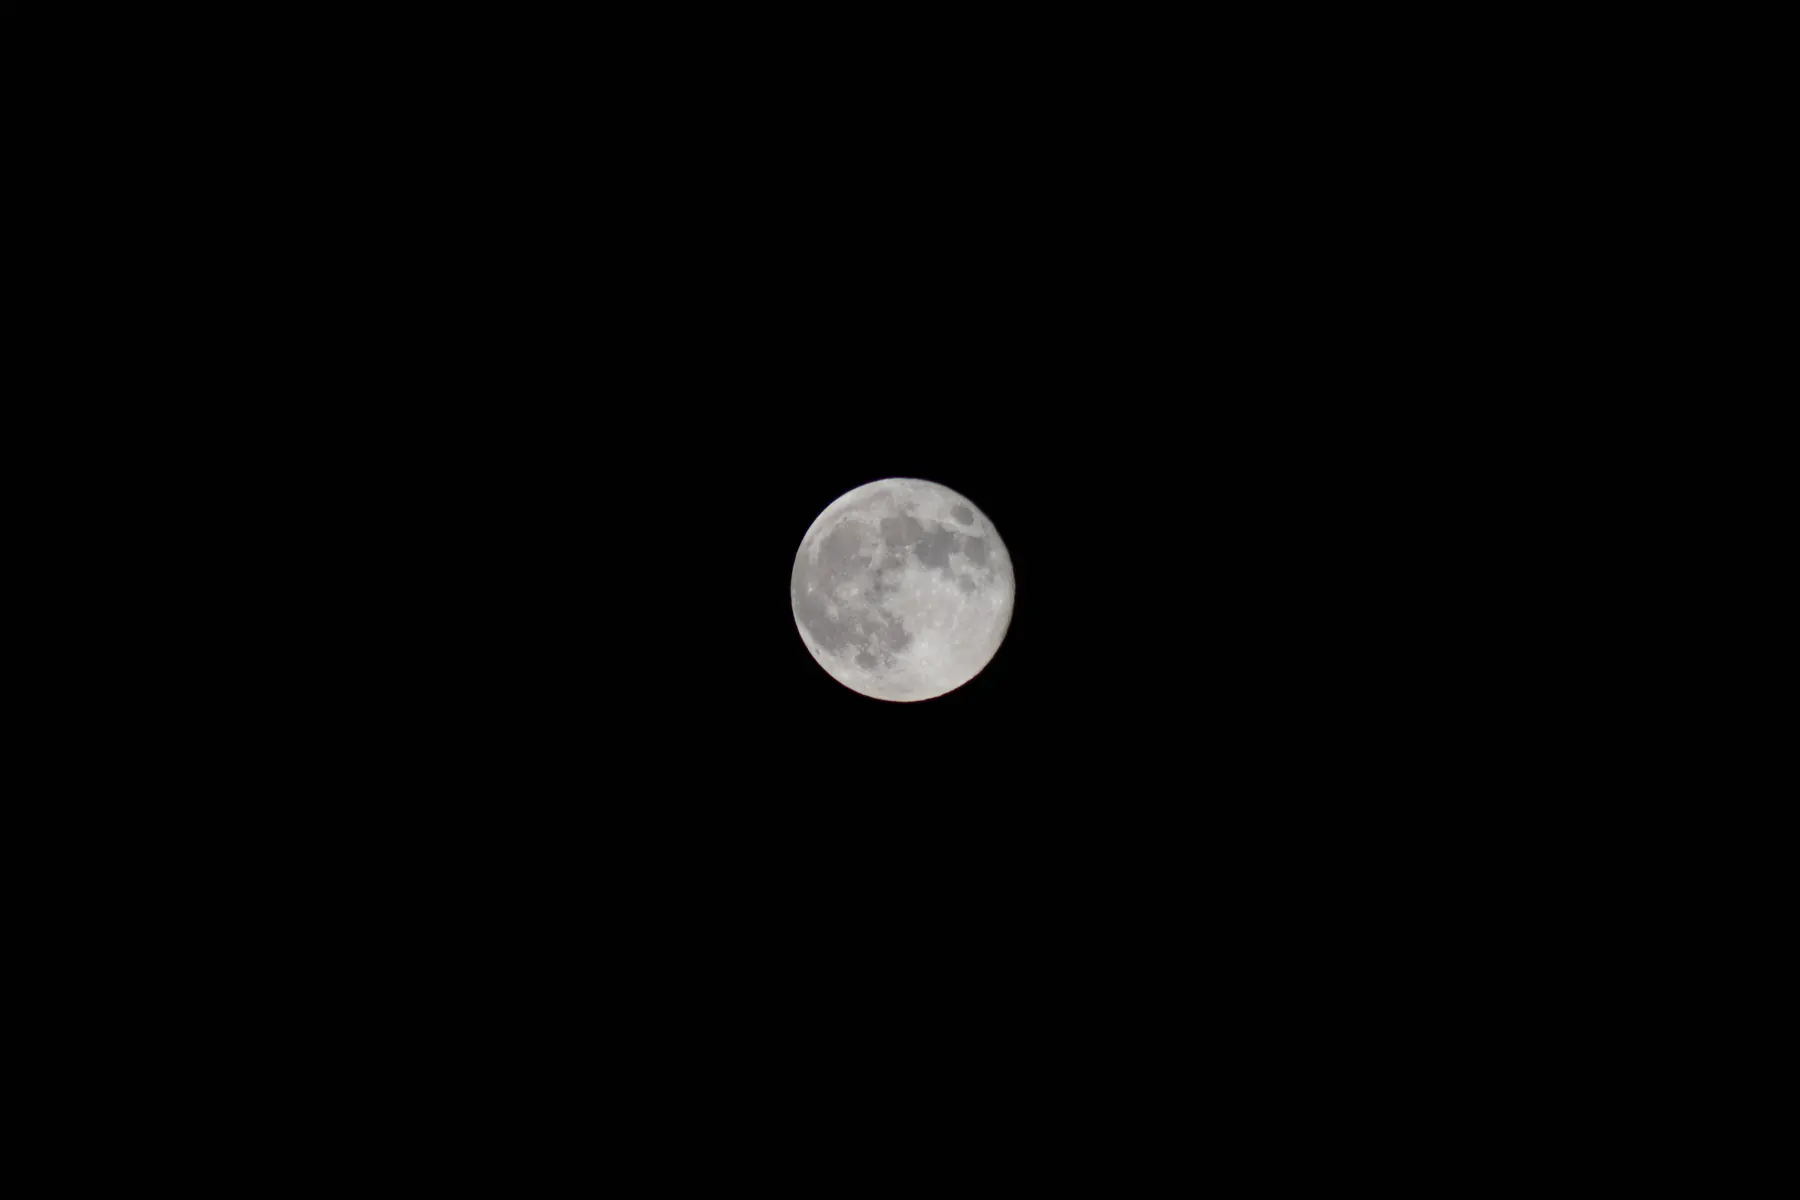
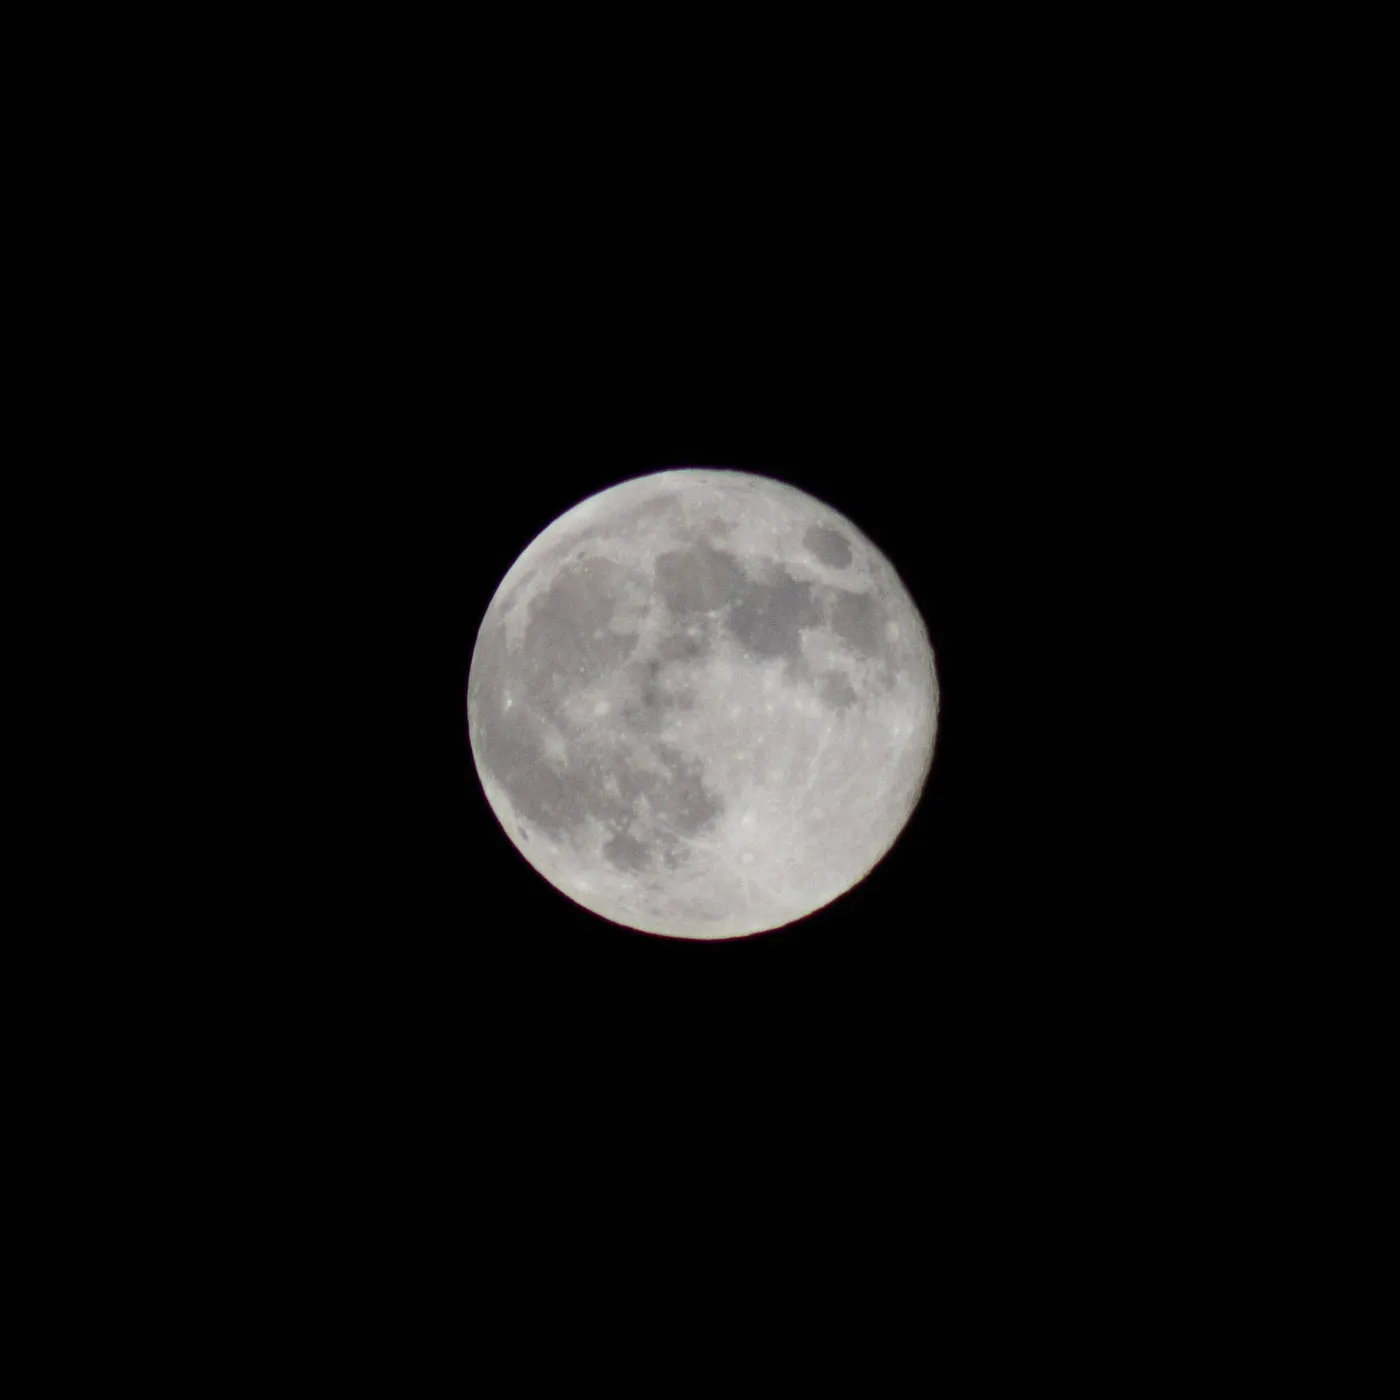
Rework project page skies and layouts, and update About and Doppel facts
- Project pages draw every project's trail faintly, with their own bright
- Doppel opens with the story, then the record with each note under its value
- The stitcher shows the finished map large, earlier stages below
- Photography: tall pairs inset, tighter groups, space between subjects
- About: new interests, general co-op wording, no repeated awards
- Doppel: 25,923 records over eight days; tuning started, locking not tested
- Resume measure and hanging bullets; 404 sky; title fit on phones

Changed region(s): [[0.3071, 0.3083, 0.6757, 0.6783]]

diff --git a/src/lib/trails.ts b/src/lib/trails.ts
@@ -39,7 +39,10 @@ function rng(seed: number) {
   return () => (s = (s * 16807) % 2147483647) / 2147483647;
 }
 
-export function layout(projects: TrailProject[], W: number, H: number, now: Date): Layout {
+/** Where trail heads may sit, as fractions of the height. The homepage uses the defaults. */
+export interface LayoutOptions { yTop?: number; yBottom?: number; }
+
+export function layout(projects: TrailProject[], W: number, H: number, now: Date, opts: LayoutOptions = {}): Layout {
   const mobile = W < 760;
   const cx = W * (mobile ? 0.82 : 0.74);
   const cy = H * (mobile ? 0.08 : 0.16);
@@ -58,8 +61,8 @@ export function layout(projects: TrailProject[], W: number, H: number, now: Date
   const n = projects.length;
   const rMin = S * (mobile ? 0.3 : 0.3);
   const rMax = S * (mobile ? 0.95 : 1.0);
-  const yTop = H * (mobile ? 0.2 : 0.2);
-  const yBottom = H * (mobile ? 0.7 : 0.48);
+  const yTop = H * (opts.yTop ?? 0.2);
+  const yBottom = H * (opts.yBottom ?? (mobile ? 0.7 : 0.48));
   const labelled = mobile ? 4 : 6;
 
   const trails: ProjectTrail[] = projects.map((p, i) => {
@@ -105,4 +108,27 @@ export function svgMarkup(L: Layout): string {
     })
     .join('');
   return `<defs><radialGradient id="t-halo"><stop offset="0" stop-color="#fff" stop-opacity=".55"/><stop offset="1" stop-color="#9fb4ff" stop-opacity="0"/></radialGradient></defs>${bg}${fg}`;
+}
+
+/** Heads on project pages sit higher than on the homepage, clear of the title. */
+export const PAGE_SKY: LayoutOptions = { yTop: 0.1, yBottom: 0.34 };
+
+/** The sky behind a project page: every trail faint, the page's own trail bright.
+ *  With cur = -1 (the 404) only the background exposure is drawn. */
+export function pageSkyMarkup(L: Layout, cur: number): string {
+  const f = (v: number) => v.toFixed(1);
+  const bg = L.background
+    .map((b) => `<path class="t-bg" d="${arcPath(L.cx, L.cy, b)}" stroke-width="${b.w.toFixed(2)}" stroke-opacity="${(b.o * 0.8).toFixed(2)}"/>`)
+    .join('');
+  if (cur < 0) return bg;
+  const fg = L.trails
+    .map((t) => {
+      const on = t.i === cur;
+      const head = !on ? ''
+        : (t.live ? `<circle class="pt-halo" cx="${f(t.head.x)}" cy="${f(t.head.y)}" r="18"/>` : '')
+          + `<circle class="pt-head${t.live ? ' live' : ''}" cx="${f(t.head.x)}" cy="${f(t.head.y)}" r="${t.live ? 4 : 2.8}"/>`;
+      return `<path class="pt-line${on ? ' on' : ''}" d="${arcPath(L.cx, L.cy, t)}"/>${head}`;
+    })
+    .join('');
+  return `<defs><radialGradient id="pt-halo-g"><stop offset="0" stop-color="#fff" stop-opacity=".55"/><stop offset="1" stop-color="#9fb4ff" stop-opacity="0"/></radialGradient></defs>${bg}${fg}`;
 }

diff --git a/src/styles/project.css b/src/styles/project.css
@@ -7,7 +7,9 @@
   .top::after { content: ""; position: absolute; inset: 0; pointer-events: none;
     background: linear-gradient(to top, rgb(1 3 10 / 0.94) 0%, rgb(1 3 10 / 0.85) 34%, transparent 62%); }
   .top-text { position: relative; z-index: 1; width: 100%; padding-block: var(--s10) var(--s8); display: grid; gap: var(--s5); }
-  .top h1 { font-size: var(--t-title); line-height: 0.95; letter-spacing: -0.01em; }
+  .top-text > * { min-width: 0; }
+  /* 11vw keeps the longest title, Doppel.exe, inside a 390px phone */
+  .top h1 { font-size: min(var(--t-title), 11vw); line-height: 0.95; letter-spacing: -0.01em; }
   .top .lead { max-width: 34em; }
   .top .status { max-width: 46em; color: var(--dim); }
   .top .status a { color: var(--white); margin-left: 0.3em; }

diff --git a/src/data/metrics.ts b/src/data/metrics.ts
@@ -69,9 +69,9 @@ export const doppel = {
   // README results 2: privacy label (geometry + key kinds) vs real letter pairs, with the improved scorer.
   labelEer: '0.025',
   lettersEer: '0.046',
-  // README limits (public repo, read 2026-11-04): owner records collected vs planned.
-  ownerRecords: '6,534',
-  ownerPlanned: 'about 20,000',
+  // Owner typing collected, from Abtin's own db summary (data/doppel.db, 2026-10-15), given 2026-11-04.
+  ownerRecords: '25,923',
+  ownerDays: 'eight',
   secondRecord: '["right", "space", 76.5, 93.0, 16.5]',
 };
 
